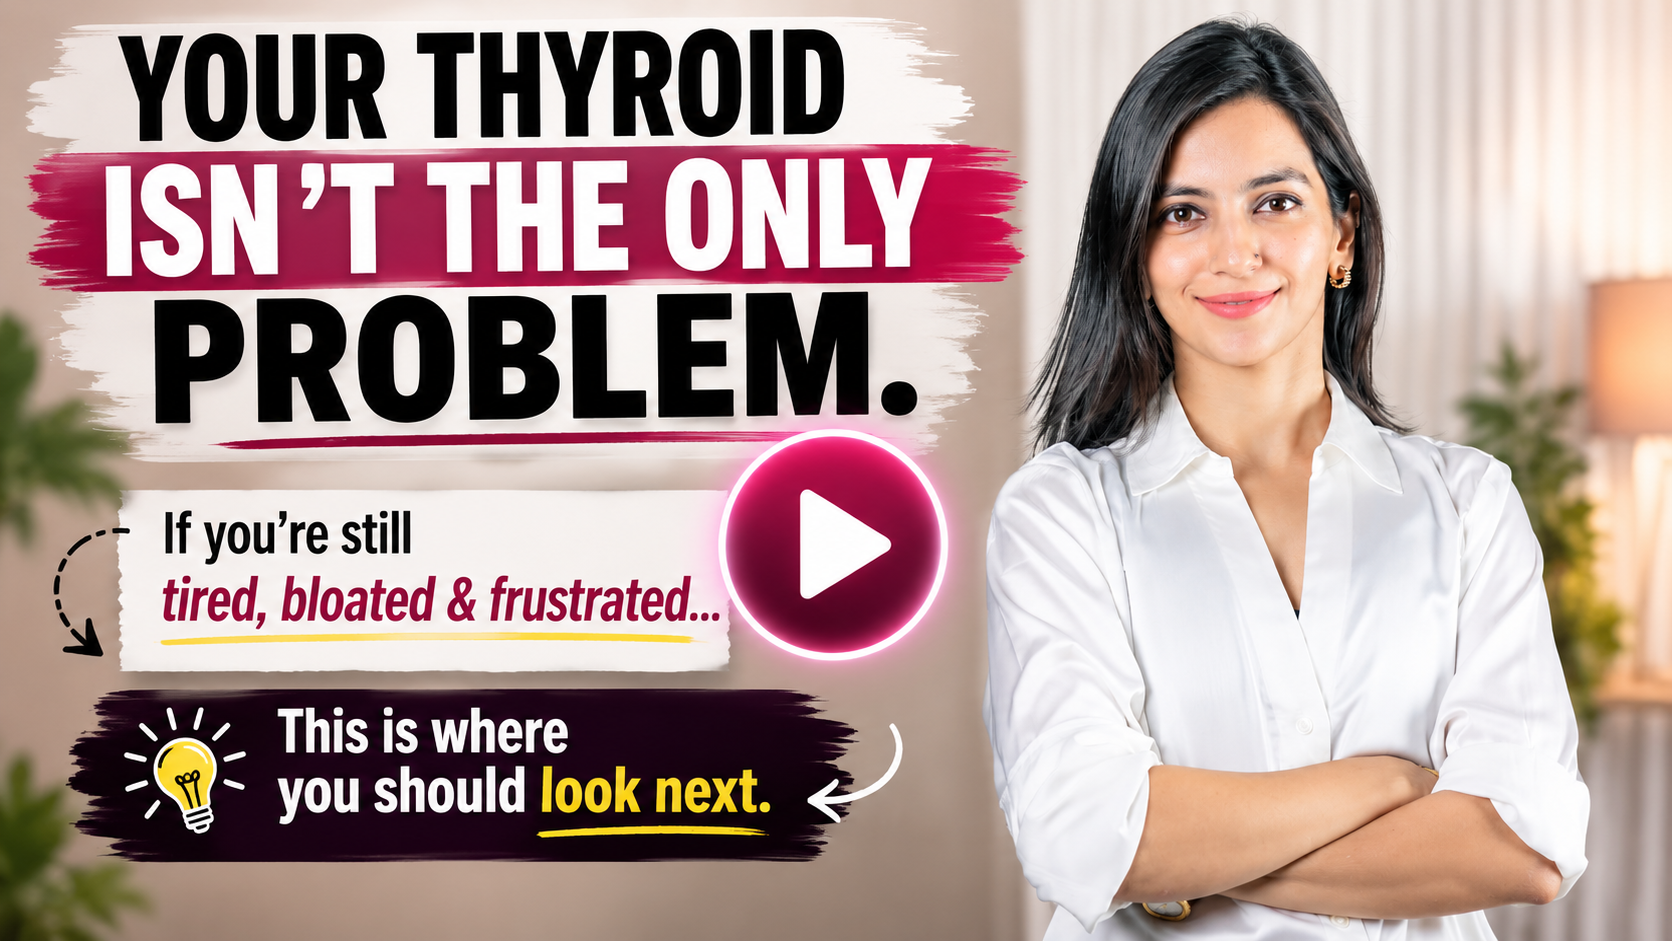
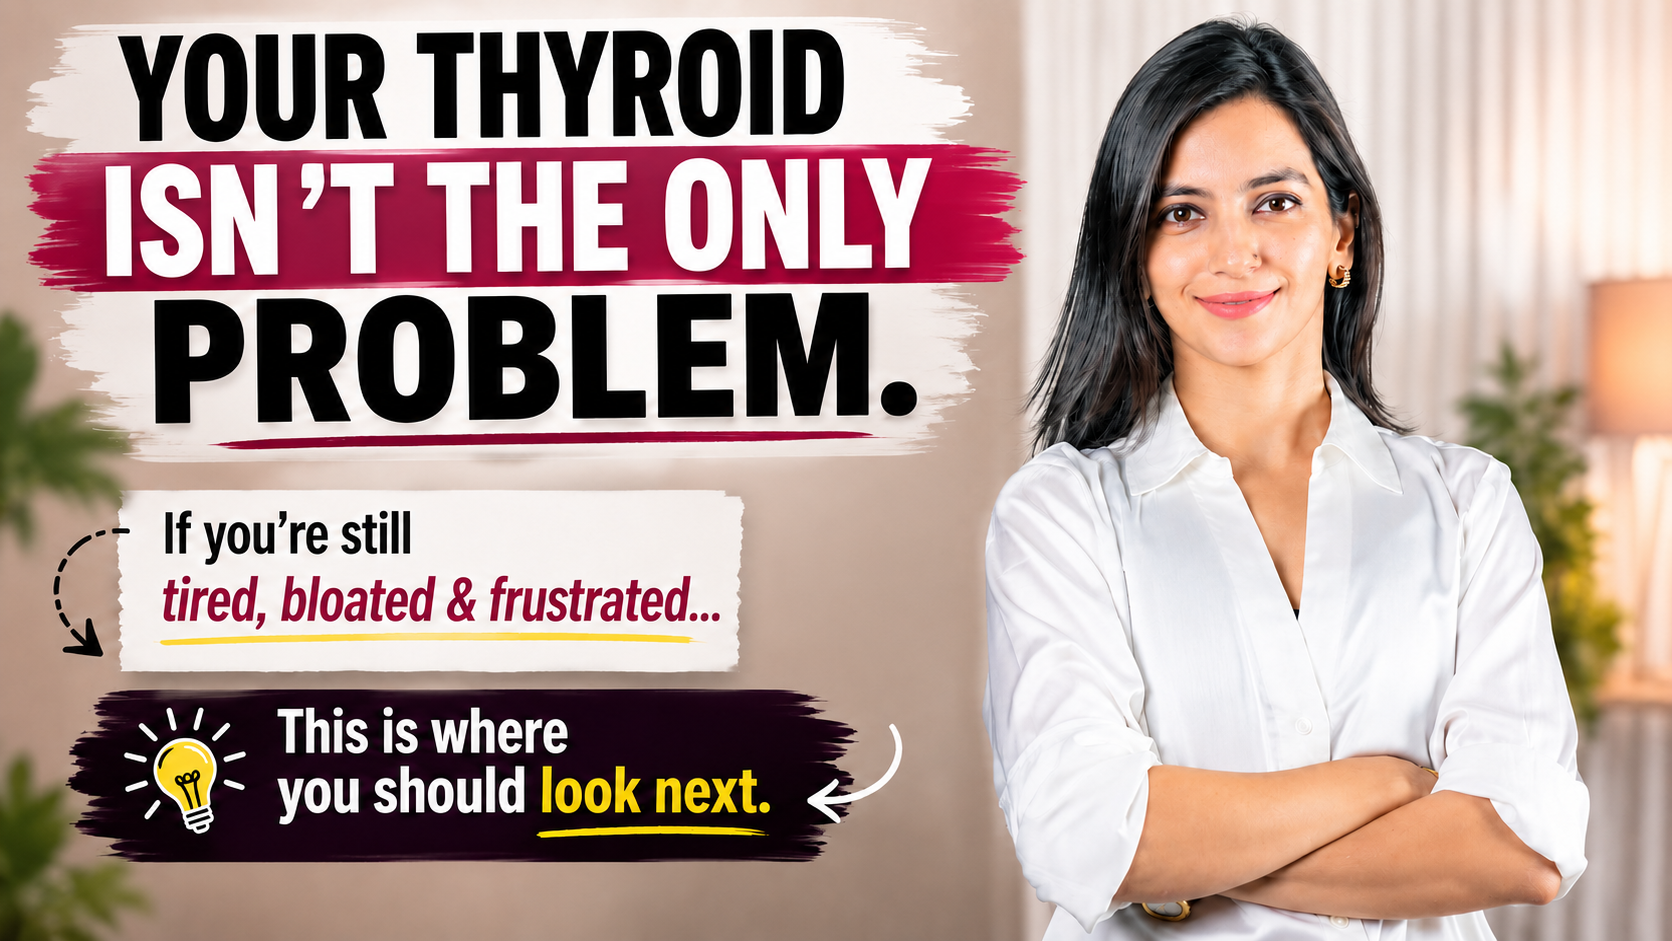
Value stack section, testimonial thumbnails, WhatsApp community, legal tweaks
- Value stack section ("Everything you get for just ₹499"): 3 poster cards with
  title/value/description in white boxes, total-value bar, on soft-pink stage
- Testimonials: real thumbnails + names (Shivani, Shradha, Yogita, Ashwin) with
  each person's pull-quote; self-contained thumbnails, 16:9 cards
- Thank-you: hero rewrite + green WhatsApp community box (env-driven invite link)
- Book-a-call: "Wait, there's more" -> Get The WhatsApp Community Link (/thank-you)
- config: whatsappCommunityUrl (NEXT_PUBLIC_WHATSAPP_COMMUNITY_URL)
- Legal: refund window "up to 7 days", data retention 30 days

diff --git a/app/page.tsx b/app/page.tsx
@@ -135,58 +135,50 @@ export default function Page() {
 
             <div className="pk-cases">
               <article className="pk-case">
-                <div className="pk-case-video" data-video={process.env.NEXT_PUBLIC_TESTIMONIAL_1_URL ?? ""} role="button" tabIndex={0} aria-label="Play Divya&rsquo;s story">
-                  <img className="pk-case-thumb" src="/assets/case-studies/divya.jpg" alt="Divya, thyroid case study" loading="lazy" />
-                  <span className="pk-case-tag">Hashimoto&rsquo;s</span>
-                  <span className="pk-case-play" aria-hidden="true"><span className="tri"></span></span>
+                <div className="pk-case-video" data-video={process.env.NEXT_PUBLIC_TESTIMONIAL_2_URL ?? ""} role="button" tabIndex={0} aria-label="Play Shivani&rsquo;s story">
+                  <img className="pk-case-thumb" src="/testimonials/Shivani.png" alt="Shivani, thyroid recovery story" loading="lazy" />
                 </div>
                 <div className="pk-case-body">
-                  <h3 className="pk-case-name">Divya</h3>
-                  <div className="pk-case-meta">Markers improved in 12 weeks</div>
+                  <h3 className="pk-case-name">Shivani</h3>
+                  <div className="pk-case-meta">Her energy came back</div>
                   <div className="pk-case-stars" aria-hidden="true">&#9733;&#9733;&#9733;&#9733;&#9733;</div>
-                  <p className="pk-case-quote">&ldquo;My endocrinologist almost made me feel like it is what it is. Palak went through every report and searched for the root cause. After 12 weeks my markers have improved, I sleep better, and I finally feel hopeful about Hashimoto&rsquo;s remission.&rdquo;</p>
+                  <p className="pk-case-quote">&ldquo;I stopped feeling tired all the time after addressing my thyroid.&rdquo;</p>
                 </div>
               </article>
 
               <article className="pk-case">
-                <div className="pk-case-video" data-video={process.env.NEXT_PUBLIC_TESTIMONIAL_2_URL ?? ""} role="button" tabIndex={0} aria-label="Play Upasana&rsquo;s story">
-                  <img className="pk-case-thumb" src="/assets/case-studies/upasana.jpg" alt="Upasana, thyroid and gut case study" loading="lazy" />
-                  <span className="pk-case-tag">Thyroid &middot; hormones</span>
-                  <span className="pk-case-play" aria-hidden="true"><span className="tri"></span></span>
+                <div className="pk-case-video" data-video={process.env.NEXT_PUBLIC_TESTIMONIAL_1_URL ?? ""} role="button" tabIndex={0} aria-label="Play Shradha&rsquo;s story">
+                  <img className="pk-case-thumb" src="/testimonials/Shradha.png" alt="Shradha, thyroid and gut recovery story" loading="lazy" />
                 </div>
                 <div className="pk-case-body">
-                  <h3 className="pk-case-name">Upasana</h3>
-                  <div className="pk-case-meta">Thyroid &amp; gut improving</div>
+                  <h3 className="pk-case-name">Shradha</h3>
+                  <div className="pk-case-meta">Thyroid &amp; gut, finally moving</div>
                   <div className="pk-case-stars" aria-hidden="true">&#9733;&#9733;&#9733;&#9733;&#9733;</div>
-                  <p className="pk-case-quote">&ldquo;Before Fit with Palak I struggled with my thyroid, gut, bowel movement and low energy. After three months on the routine I have seen good improvement in all of these. A few more months and I will be completely over them.&rdquo;</p>
+                  <p className="pk-case-quote">&ldquo;Nothing worked until I addressed my thyroid and gut health.&rdquo;</p>
                 </div>
               </article>
 
               <article className="pk-case">
-                <div className="pk-case-video" data-video={process.env.NEXT_PUBLIC_TESTIMONIAL_3_URL ?? ""} role="button" tabIndex={0} aria-label="Play Grishma&rsquo;s story">
-                  <img className="pk-case-thumb" src="/assets/case-studies/grishma.jpg" alt="Grishma, gut and acidity case study" loading="lazy" />
-                  <span className="pk-case-tag">Daily acidity &middot; gut</span>
-                  <span className="pk-case-play" aria-hidden="true"><span className="tri"></span></span>
+                <div className="pk-case-video" data-video={process.env.NEXT_PUBLIC_TESTIMONIAL_3_URL ?? ""} role="button" tabIndex={0} aria-label="Play Yogita&rsquo;s story">
+                  <img className="pk-case-thumb" src="/testimonials/Yogita.png" alt="Yogita, thyroid recovery story" loading="lazy" />
                 </div>
                 <div className="pk-case-body">
-                  <h3 className="pk-case-name">Grishma</h3>
-                  <div className="pk-case-meta">Off her daily acidity meds</div>
+                  <h3 className="pk-case-name">Yogita</h3>
+                  <div className="pk-case-meta">A plan built around her body</div>
                   <div className="pk-case-stars" aria-hidden="true">&#9733;&#9733;&#9733;&#9733;&#9733;</div>
-                  <p className="pk-case-quote">&ldquo;My acidity troubled me constantly and I took those medicines every single day. Now I do not even remember where they are in my house. Even following the plan sixty to seventy percent, my acidity is completely gone.&rdquo;</p>
+                  <p className="pk-case-quote">&ldquo;Every workout was designed around my body, not against it.&rdquo;</p>
                 </div>
               </article>
 
               <article className="pk-case">
-                <div className="pk-case-video" data-video={process.env.NEXT_PUBLIC_TESTIMONIAL_4_URL ?? ""} role="button" tabIndex={0} aria-label="Play Amoolya&rsquo;s story">
-                  <img className="pk-case-thumb" src="/assets/case-studies/amoolya.jpg" alt="Amoolya, hidden inflammation case study" loading="lazy" />
-                  <span className="pk-case-tag">Hidden inflammation</span>
-                  <span className="pk-case-play" aria-hidden="true"><span className="tri"></span></span>
+                <div className="pk-case-video" data-video={process.env.NEXT_PUBLIC_TESTIMONIAL_4_URL ?? ""} role="button" tabIndex={0} aria-label="Play Ashwin&rsquo;s story">
+                  <img className="pk-case-thumb" src="/testimonials/Ashwin.png" alt="Ashwin, gut and bloating recovery story" loading="lazy" />
                 </div>
                 <div className="pk-case-body">
-                  <h3 className="pk-case-name">Amoolya</h3>
-                  <div className="pk-case-meta">Inflammation found on bloodwork</div>
+                  <h3 className="pk-case-name">Ashwin</h3>
+                  <div className="pk-case-meta">Gut healed, bloating gone</div>
                   <div className="pk-case-stars" aria-hidden="true">&#9733;&#9733;&#9733;&#9733;&#9733;</div>
-                  <p className="pk-case-quote">&ldquo;For years my weight would not drop. The blood work Palak asked me to do showed inflammation, something I never knew affected weight loss. Once I cut gluten, dairy and sugar the weight came down, my iron improved and my constant tiredness lifted.&rdquo;</p>
+                  <p className="pk-case-quote">&ldquo;My gut healed, my bloating reduced, and I finally felt lighter.&rdquo;</p>
                 </div>
               </article>
             </div>
@@ -387,9 +379,82 @@ export default function Page() {
           </div>
         </section>
 
+        {/* ============================================== 8.5 · VALUE STACK (what you get for the fee) */}
+        <section className="section section--soft" data-reveal aria-label="Everything you get">
+          <div className="wrap">
+            <div className="sec-head">
+              <span className="eyebrow">What you get</span>
+              <h2 className="display">Everything you get for just <span className="pk-vs-price">₹499</span>.</h2>
+              <p className="deck">A focused 1:1 assessment, your exact test list, and a private community of women doing the same work. Here is everything that is yours the moment you book.</p>
+            </div>
+
+            <div className="pk-vstack-grid">
+              <article className="pk-vs-card">
+                <img src="/value-stack/30_min_call.png" alt="30-Minute Clarity Call with Palak, value ₹1,999" loading="lazy" />
+                <div className="pk-vs-cap">
+                  <div className="pk-vs-cap-top">
+                    <h3 className="pk-vs-name">30-Minute Clarity Call</h3>
+                    <span className="pk-vs-val-pill">₹1,999</span>
+                  </div>
+                  <p className="pk-vs-desc">A focused 1:1 assessment where you get the likely cause of how you feel and a clear order of what to fix first.</p>
+                  <span className="pk-vs-included"><svg viewBox="0 0 24 24" fill="none" stroke="currentColor" strokeWidth="2.4" strokeLinecap="round" strokeLinejoin="round" aria-hidden="true"><path d="M5 12.5l4 4 10-10.5" /></svg>Included</span>
+                </div>
+              </article>
+              <article className="pk-vs-card">
+                <img src="/value-stack/test_list.png" alt="Your Personal Test List, value ₹999" loading="lazy" />
+                <div className="pk-vs-cap">
+                  <div className="pk-vs-cap-top">
+                    <h3 className="pk-vs-name">Your Personal Test List</h3>
+                    <span className="pk-vs-val-pill">₹999</span>
+                  </div>
+                  <p className="pk-vs-desc">A written list of the exact tests your case needs, so you stop wasting time and money on the wrong ones.</p>
+                  <span className="pk-vs-included"><svg viewBox="0 0 24 24" fill="none" stroke="currentColor" strokeWidth="2.4" strokeLinecap="round" strokeLinejoin="round" aria-hidden="true"><path d="M5 12.5l4 4 10-10.5" /></svg>Included</span>
+                </div>
+              </article>
+              <article className="pk-vs-card">
+                <img src="/value-stack/community.png" alt="The FitWithPalak Community, value ₹899" loading="lazy" />
+                <div className="pk-vs-cap">
+                  <div className="pk-vs-cap-top">
+                    <h3 className="pk-vs-name">The FitWithPalak Community</h3>
+                    <span className="pk-vs-val-pill">₹899</span>
+                  </div>
+                  <p className="pk-vs-desc">A private WhatsApp space with other women doing the same work, so you are never figuring this out alone.</p>
+                  <span className="pk-vs-included"><svg viewBox="0 0 24 24" fill="none" stroke="currentColor" strokeWidth="2.4" strokeLinecap="round" strokeLinejoin="round" aria-hidden="true"><path d="M5 12.5l4 4 10-10.5" /></svg>Included</span>
+                </div>
+              </article>
+            </div>
+
+            <div className="pk-vstack-total" role="group" aria-label="Total value and price">
+              <span className="pk-vs-gift" aria-hidden="true">
+                <svg viewBox="0 0 24 24" fill="none" stroke="currentColor" strokeWidth="1.7" strokeLinecap="round" strokeLinejoin="round"><path d="M20 12v8H4v-8" /><path d="M2 7h20v5H2z" /><path d="M12 22V7" /><path d="M12 7S9.5 3 7.5 4.2 8 7 8 7h4zM12 7s2.5-4 4.5-2.8S16 7 16 7h-4z" /></svg>
+              </span>
+              <div className="pk-vs-total-left">
+                <span className="pk-vs-total-lbl">Total value</span>
+                <span className="pk-vs-total-fig">₹3,897</span>
+              </div>
+              <span className="pk-vs-arrow" aria-hidden="true">
+                <svg viewBox="0 0 24 24" fill="none" stroke="currentColor" strokeWidth="2" strokeLinecap="round" strokeLinejoin="round"><path d="M5 12h13M13 6l6 6-6 6" /></svg>
+              </span>
+              <div className="pk-vs-pay">
+                <span className="pk-vs-pay-lbl">You pay today</span>
+                <span className="pk-vs-pay-fig">₹499</span>
+              </div>
+            </div>
+
+            <div className="pk-vstack-cta">
+              <a className="cta-big" href="/checkout" role="button">
+                Book My 1:1 Call With Palak
+                <svg viewBox="0 0 20 20" fill="none" stroke="currentColor" strokeWidth="2" strokeLinecap="round" strokeLinejoin="round" aria-hidden="true">
+                  <path d="M4 10h11M11 5.5L15.5 10 11 14.5" />
+                </svg>
+              </a>
+              <p className="pk-cta-guarantee">Clarity or money back guarantee</p>
+            </div>
+          </div>
+        </section>
 
         {/* ============================================== 9 · THE OFFER (walk-away ledger + price + guarantee) */}
-        <section className="section section--soft" id="book" data-reveal aria-label="Book a Clarity Call">
+        <section className="section section--light" id="book" data-reveal aria-label="Book a Clarity Call">
           <div className="wrap">
             <div className="sec-head">
               <span className="eyebrow">The next step</span>
@@ -454,7 +519,7 @@ export default function Page() {
         </section>
 
         {/* ============================================== 10 · WHO THIS IS / IS NOT FOR (fit contrast) */}
-        <section className="section section--light" id="fit" data-reveal aria-label="Who this is for">
+        <section className="section section--soft" id="fit" data-reveal aria-label="Who this is for">
           <div className="wrap">
             <div className="sec-head">
               <span className="eyebrow">Let us be honest about fit</span>
@@ -500,7 +565,7 @@ export default function Page() {
         </section>
 
         {/* ============================================== 11 · FAQ (objection ledger) */}
-        <section className="section section--soft" id="faq" data-reveal aria-label="Before you book">
+        <section className="section section--light" id="faq" data-reveal aria-label="Before you book">
           <div className="wrap">
             <div className="sec-head">
               <span className="eyebrow">Before you book</span>

diff --git a/public/palak.css b/public/palak.css
@@ -470,7 +470,7 @@ p em, li em, span em { font-family:var(--f-sans); font-style:normal; font-weight
 .pk-case:hover { transform:translateY(-3px); border-color:color-mix(in oklab,var(--accent) 45%,transparent);
   box-shadow:0 26px 54px -28px color-mix(in oklab,var(--accent-deep) 40%,transparent); }
 /* video preview — pink placeholder behind the thumbnail; thumb covers it when supplied */
-.pk-case-video { position:relative; aspect-ratio:16/10; border-radius:12px; overflow:hidden; cursor:pointer; isolation:isolate;
+.pk-case-video { position:relative; aspect-ratio:16/9; border-radius:12px; overflow:hidden; cursor:pointer; isolation:isolate;
   background:radial-gradient(ellipse at 30% 25%, #7d2a52 0%, #4f1a34 70%, #3a1326 100%); border:1px solid #E9D9DE; }
 .pk-case-thumb { position:absolute; inset:0; width:100%; height:100%; object-fit:cover; z-index:2; }
 .pk-case-tag { position:absolute; top:10px; left:10px; z-index:3; padding:4px 10px; border-radius:999px;
@@ -515,6 +515,116 @@ p em, li em, span em { font-family:var(--f-sans); font-style:normal; font-weight
 /* --- Option B: soft pink (like "The next step") --- */
 #proof.proof-soft { background:var(--canvas-2); border-top:1px solid var(--hair); }
 /* header + cards stay dark on the light stage (default tokens); no overrides needed */
+
+/* ============ VALUE STACK section ==========================================
+   Sits between the wine Palak stage above and the soft-pink offer below, so it
+   takes its own deepest-plum stage (darker than the wine) with gold seams, to
+   read as a premium "here is everything you get" reveal. Fully responsive:
+   3 poster cards -> 1 column on small screens; the total bar stacks on mobile. */
+.pk-vstack { position:relative; isolation:isolate; color:var(--ink);
+  padding:clamp(52px,6.5vw,92px) 0;
+  border-top:1.5px solid var(--gold); border-bottom:1.5px solid var(--gold);
+  background:
+    radial-gradient(ellipse 95% 55% at 50% 0%, color-mix(in oklab,#ec8fbb 17%,transparent) 0%, transparent 55%),
+    radial-gradient(ellipse 75% 50% at 50% 100%, color-mix(in oklab,#ec8fbb 10%,transparent) 0%, transparent 60%),
+    #180611; }
+.pk-vstack .sec-head { margin-bottom:clamp(30px,4vw,48px); }
+.pk-vs-price { color:var(--accent-deep); font-style:normal; }
+
+/* Poster cards */
+.pk-vstack-grid { display:grid; grid-template-columns:repeat(3,1fr); gap:clamp(16px,2vw,26px);
+  max-width:1120px; margin:0 auto; }
+.pk-vs-card { border-radius:20px; overflow:hidden; background:#fff; padding:16px;
+  display:flex; flex-direction:column; gap:0;
+  border:1px solid #E9D9DE;
+  box-shadow:0 18px 44px -28px rgba(60,20,40,.42);
+  transition:transform .28s var(--ease-btn,ease), border-color .28s ease, box-shadow .28s ease; }
+.pk-vs-card img { width:100%; height:auto; display:block; aspect-ratio:1/1; object-fit:cover; border-radius:13px; }
+@media (hover:hover){
+  .pk-vs-card:hover { transform:translateY(-4px); border-color:color-mix(in oklab,var(--accent) 45%,transparent);
+    box-shadow:0 28px 58px -26px rgba(60,20,40,.5); }
+}
+.pk-vs-cap { padding:16px 6px 6px; display:flex; flex-direction:column; gap:10px; text-align:left; }
+.pk-vs-cap-top { display:flex; align-items:baseline; justify-content:space-between; gap:12px; }
+.pk-vs-name { font-family:var(--f-display); font-weight:600; font-size:clamp(16.5px,1.6vw,19px); line-height:1.2;
+  letter-spacing:-.01em; color:var(--ink); margin:0; }
+.pk-vs-val-pill { flex:none; font-family:var(--f-mono); font-size:12px; font-weight:500; color:var(--accent-deep);
+  background:var(--accent-soft); padding:4px 11px; border-radius:999px; }
+.pk-vs-desc { color:var(--ink-2); font-size:clamp(13.5px,1.35vw,15px); line-height:1.5; margin:0; }
+.pk-vs-included { display:inline-flex; align-items:center; gap:6px; font-family:var(--f-mono); font-size:10.5px;
+  letter-spacing:.1em; text-transform:uppercase; color:var(--accent-deep); font-weight:500; margin-top:2px; }
+.pk-vs-included svg { width:14px; height:14px; }
+
+/* Total value / you-pay bar (echoes the collage summary) */
+.pk-vstack-total { max-width:760px; margin:clamp(28px,3.6vw,44px) auto 0;
+  display:flex; align-items:center; justify-content:center; gap:clamp(16px,3vw,34px);
+  padding:clamp(18px,2.4vw,26px) clamp(20px,3vw,34px); border-radius:20px;
+  background:#fff;
+  border:1px solid #E9D9DE;
+  box-shadow:0 18px 44px -28px rgba(60,20,40,.42); }
+.pk-vs-gift { flex:none; width:46px; height:46px; border-radius:50%; display:grid; place-items:center;
+  color:var(--accent-deep); border:1px solid color-mix(in oklab,var(--accent) 32%,transparent); }
+.pk-vs-gift svg { width:24px; height:24px; }
+.pk-vs-total-left { display:flex; flex-direction:column; gap:2px; text-align:left; }
+.pk-vs-total-lbl { font-family:var(--f-mono); font-size:11px; letter-spacing:.12em; text-transform:uppercase; color:var(--ink-3); }
+.pk-vs-total-fig { font-family:var(--f-display); font-size:clamp(22px,2.6vw,30px); font-weight:600; color:var(--ink-2);
+  text-decoration:line-through; text-decoration-color:color-mix(in oklab,var(--accent) 70%,transparent); }
+.pk-vs-arrow { flex:none; color:var(--accent-deep); }
+.pk-vs-arrow svg { width:26px; height:26px; }
+.pk-vs-pay { display:flex; flex-direction:column; gap:3px; align-items:flex-start;
+  padding:10px 22px; border-radius:14px;
+  background:linear-gradient(180deg,#ec8fbb,#c14d86);
+  box-shadow:0 12px 30px -10px color-mix(in oklab,var(--accent) 65%,transparent); }
+.pk-vs-pay-lbl { font-family:var(--f-mono); font-size:10.5px; letter-spacing:.1em; text-transform:uppercase; color:rgba(255,255,255,.9); }
+.pk-vs-pay-fig { font-family:var(--f-display); font-size:clamp(26px,3vw,36px); font-weight:700; color:#fff; line-height:1; }
+
+/* CTA under the value stack */
+.pk-vstack-cta { margin-top:clamp(28px,3.4vw,40px); text-align:center; }
+
+@media (max-width:820px){
+  .pk-vstack-grid { grid-template-columns:1fr; max-width:440px; }
+}
+@media (max-width:560px){
+  .pk-vstack-total { flex-direction:column; gap:14px; text-align:center; }
+  .pk-vs-total-left { align-items:center; text-align:center; }
+  .pk-vs-pay { align-items:center; width:100%; }
+  .pk-vs-arrow { transform:rotate(90deg); }
+}
+
+/* Book-a-call: "Wait, there's more" callout below the calendar */
+.pk-book-more { margin-top:clamp(26px,3.6vw,40px); padding-top:clamp(24px,3vw,32px);
+  border-top:1px solid var(--hair); text-align:center; }
+.pk-book-more-kicker { display:block; font-family:var(--f-display); font-weight:600;
+  font-size:clamp(21px,2.5vw,30px); letter-spacing:-.01em; color:var(--ink); margin-bottom:10px; }
+.pk-book-more-kicker em { font-style:italic; color:var(--accent-deep); }
+.pk-book-more-text { max-width:46ch; margin:0 auto 22px; color:var(--ink-2);
+  font-size:clamp(15px,1.5vw,17px); line-height:1.55; }
+
+/* Thank-you: WhatsApp community box (green, deliberate WhatsApp cue) */
+.pk-community { position:relative; overflow:hidden; margin:clamp(30px,4vw,44px) auto 0; max-width:780px;
+  border-radius:28px; padding:clamp(30px,4.4vw,52px) clamp(22px,4vw,52px); text-align:center; isolation:isolate;
+  background:linear-gradient(135deg,#3f9e6e 0%,#4bae74 48%,#59bb7e 100%);
+  box-shadow:0 34px 74px -34px rgba(28,86,56,.62); }
+.pk-community::after { content:""; position:absolute; inset:0; z-index:-1; opacity:.5;
+  background:repeating-linear-gradient(135deg, rgba(255,255,255,.06) 0 2px, transparent 2px 16px); }
+.pk-community-badge { display:inline-flex; align-items:center; gap:8px; margin-bottom:18px;
+  font-family:var(--f-mono); font-size:11.5px; font-weight:600; letter-spacing:.12em; text-transform:uppercase;
+  color:#fff; background:rgba(255,255,255,.18); padding:8px 16px; border-radius:999px; }
+.pk-community-badge svg { width:15px; height:15px; }
+.pk-community-title { font-family:var(--f-sans); font-weight:800; letter-spacing:-.02em; line-height:1.1;
+  font-size:clamp(24px,3.4vw,40px); color:#0d2c1d; margin:0 0 14px; }
+.pk-community-text { max-width:54ch; margin:0 auto 28px; font-size:clamp(15px,1.6vw,18px); line-height:1.55;
+  color:rgba(255,255,255,.94); }
+.pk-community-text strong { color:#fff; font-weight:700; }
+.pk-community-btn { display:inline-flex; align-items:center; gap:12px; background:#fff; color:#1f7a4d;
+  font-family:var(--f-sans); font-weight:700; font-size:clamp(15px,1.7vw,18.5px);
+  padding:16px 32px; border-radius:999px; box-shadow:0 18px 38px -14px rgba(0,0,0,.4);
+  transition:transform .2s ease, box-shadow .2s ease; }
+.pk-community-btn:hover { transform:translateY(-2px); box-shadow:0 24px 48px -16px rgba(0,0,0,.46); }
+.pk-community-btn svg { width:23px; height:23px; }
+.pk-community-btn .arr { width:19px; height:19px; }
+.pk-community-note { margin:16px 0 0; font-family:var(--f-mono); font-size:11px; letter-spacing:.06em;
+  color:rgba(255,255,255,.82); }
 
 /* case study video modal */
 .pk-case-modal { position:fixed; inset:0; z-index:1000; display:none; align-items:center; justify-content:center; padding:24px; }

diff --git a/app/thank-you/page.tsx b/app/thank-you/page.tsx
@@ -1,6 +1,7 @@
 import type { Metadata } from "next";
 import FunnelEffects from "../FunnelEffects";
 import Footer from "../Footer";
+import { brand } from "@/lib/config";
 
 export const metadata: Metadata = {
   title: "You are booked | FitWithPalak Clarity Call",
@@ -8,6 +9,7 @@ export const metadata: Metadata = {
 };
 
 export default function ThankYouPage() {
+  const communityUrl = brand.whatsappCommunityUrl;
   return (
     <>
       <FunnelEffects sticky={false} />
@@ -45,8 +47,23 @@ export default function ThankYouPage() {
             </div>
             <div className="sec-head">
               <span className="eyebrow">Your Clarity Call is booked</span>
-              <h2 className="display">You are all set. Your call is <em>confirmed.</em></h2>
-              <p className="deck">Check your email for the link. We will also send one WhatsApp reminder before your call.</p>
+              <h2 className="display">Your call is confirmed. <em>One last step.</em></h2>
+              <p className="deck">Check your email for the call link. And join the <em>FitWithPalak</em> WhatsApp community as promised.</p>
+            </div>
+
+            <div className="pk-community" role="group" aria-label="Join the FitWithPalak WhatsApp community">
+              <span className="pk-community-badge">
+                <svg viewBox="0 0 24 24" fill="none" stroke="currentColor" strokeWidth="2.2" strokeLinecap="round" strokeLinejoin="round" aria-hidden="true"><path d="M12 3l9 16H3z" /><path d="M12 10v4M12 17v.5" /></svg>
+                Important &middot; One last step
+              </span>
+              <h3 className="pk-community-title">Join the FitWithPalak WhatsApp community now.</h3>
+              <p className="pk-community-text">This is where Palak shares reminders, answers, and support around your call, alongside other women doing the same work. <strong>Your seat in the community is waiting.</strong></p>
+              <a className="pk-community-btn" href={communityUrl} target="_blank" rel="noopener noreferrer">
+                <svg viewBox="0 0 24 24" fill="currentColor" aria-hidden="true"><path d="M12 2a10 10 0 0 0-8.6 15l-1.3 4.8 4.9-1.3A10 10 0 1 0 12 2zm0 2a8 8 0 1 1-4.2 14.8l-.3-.2-2.9.8.8-2.8-.2-.3A8 8 0 0 1 12 4zm-3 4.2c-.2 0-.5 0-.7.4-.2.4-.9 1-.9 2.3s.9 2.6 1.1 2.8c.1.2 1.8 2.9 4.5 3.9 2.2.9 2.7.7 3.2.7.5-.1 1.5-.6 1.7-1.2.2-.6.2-1.1.2-1.2-.1-.1-.3-.2-.6-.3l-1.8-.9c-.2-.1-.4-.1-.6.1l-.8 1c-.2.2-.3.2-.6.1-.3-.2-1.2-.5-2.3-1.4-.8-.7-1.4-1.6-1.6-1.9-.1-.3 0-.4.1-.5l.5-.5c.1-.2.2-.3.3-.5.1-.2 0-.4 0-.5l-.9-2c-.2-.5-.4-.5-.6-.5z" /></svg>
+                Join the Community Here
+                <svg className="arr" viewBox="0 0 20 20" fill="none" stroke="currentColor" strokeWidth="2" strokeLinecap="round" strokeLinejoin="round" aria-hidden="true"><path d="M4 10h11M11 5.5L15.5 10 11 14.5" /></svg>
+              </a>
+              <p className="pk-community-note">Opens in WhatsApp &middot; 1-click join</p>
             </div>
           </div>
         </section>

diff --git a/app/book-a-call/page.tsx b/app/book-a-call/page.tsx
@@ -94,6 +94,17 @@ export default function BookACallPage() {
                   <span>30 minutes, 1:1, directly with Palak.</span>
                 </li>
               </ul>
+
+              <div className="pk-book-more">
+                <span className="pk-book-more-kicker">Wait, <em>there is more.</em></span>
+                <p className="pk-book-more-text">Your booking also includes the private FitWithPalak WhatsApp community. Grab your link on the next step.</p>
+                <a className="cta-big" href="/thank-you" role="button">
+                  Get The WhatsApp Community Link
+                  <svg viewBox="0 0 20 20" fill="none" stroke="currentColor" strokeWidth="2" strokeLinecap="round" strokeLinejoin="round" aria-hidden="true">
+                    <path d="M4 10h11M11 5.5L15.5 10 11 14.5" />
+                  </svg>
+                </a>
+              </div>
             </div>
           </div>
         </section>

diff --git a/lib/config.ts b/lib/config.ts
@@ -36,6 +36,9 @@ export const brand = {
   siteUrl,
   /** Canonical checkout URL for CAPI event_source_url (query stripped). */
   checkoutUrl: process.env.NEXT_PUBLIC_CHECKOUT_URL ?? `${siteUrl}/checkout`,
+  /** WhatsApp community invite link (shown on the thank-you page). */
+  whatsappCommunityUrl:
+    process.env.NEXT_PUBLIC_WHATSAPP_COMMUNITY_URL ?? "https://chat.whatsapp.com/L5uVsryORlSKipLRkwNzZj",
 } as const;
 
 /** Formatted price for display, e.g. "₹499". */

diff --git a/app/privacy/page.tsx b/app/privacy/page.tsx
@@ -50,7 +50,7 @@ export default function PrivacyPage() {
       <p>These providers process your information on our behalf and are expected to protect it. We may also share information if the law requires it, or to protect our rights and the safety of others.</p>
 
       <h2>6. How long we keep your information</h2>
-      <p>We keep your information only as long as we need it for the purposes described above, or as long as the law requires us to. Booking and payment records are kept for the period required for accounting and tax. When we no longer need your information, we delete it or make it anonymous.</p>
+      <p>We keep your information for up to 30 days after your call, after which we delete it or make it anonymous. The only exception is booking and payment records, which we keep for as long as the law requires us to for accounting and tax.</p>
 
       <h2>7. How we protect your information</h2>
       <p>We use reasonable technical and organisational measures to protect your information from loss, misuse, and unauthorised access. No method of transmission over the internet is completely secure, so we cannot promise absolute security, but we take your data seriously and limit access to the people who need it.</p>

diff --git a/app/refund/page.tsx b/app/refund/page.tsx
@@ -17,7 +17,7 @@ export default function RefundPage() {
       <p>The Clarity Call is ₹499, and it is backed by a simple promise. If you attend your full call and do not walk away with real clarity on what is likely going on with your body and what to do next, your ₹499 is refunded. All we ask is that you complete the call, so Palak has the chance to actually assess your situation.</p>
 
       <h2>2. How to request a refund</h2>
-      <p>To request a refund under this promise, write to <a href="mailto:[email redacted]">[email redacted]</a> within 7 days of your call. Please use the same email you booked with and tell us briefly that the call did not give you the clarity you came for. You do not need to justify it in detail. We honour this promise in good faith.</p>
+      <p>To request a refund under this promise, write to <a href="mailto:[email redacted]">[email redacted]</a> up to 7 days after your call. Please use the same email you booked with and tell us briefly that the call did not give you the clarity you came for. You do not need to justify it in detail. We honour this promise in good faith.</p>
 
       <h2>3. Refund timelines</h2>
       <p>Once we approve your refund, we process it to your original payment method through Razorpay. Refunds are usually completed within 5 to 7 business days, though the exact time your bank takes to show it can vary.</p>